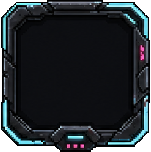
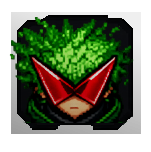
Add Teknium profile scanline FX

diff --git a/tools/validate_healthbar_spec.py b/tools/validate_healthbar_spec.py
@@ -23,6 +23,10 @@ checks = [
     root / 'assets' / 'ui' / 'portrait_ring.png',
     root / 'assets' / 'ui' / 'hero_profile.png',
     root / 'assets' / 'ui' / 'hero_profile_p2.png',
+    root / 'assets' / 'ui' / 'hero_profile_scanlines.png',
+    root / 'assets' / 'ui' / 'hero_profile_scanlines_p2.png',
+    root / 'assets' / 'ui' / 'hero_profile_top.png',
+    root / 'assets' / 'ui' / 'hero_profile_top_p2.png',
     root / 'assets' / 'ui' / 'countdown_timer.png',
     root / 'art' / 'portraits' / 'teknium_portrait.png',
     root / 'art' / 'portraits' / 'lobster_portrait.png',
@@ -86,6 +90,12 @@ required_health = [
     'var suffix := "" if slot == "P1" else "_p2"',
     'var colors := [P2_FILL_BASE, P2_FILL_SHINE] if slot != "P1" else _hero_fill_colors(hero_name)',
     'healthbar_outline%s.png', 'healthbar_track%s.png', 'hero_profile%s.png',
+    'hero_profile_scanlines%s.png', 'hero_profile_top%s.png', 'PortraitScanlineClip', 'clip_contents = true',
+    'PORTRAIT_SCANLINE_SCROLL_SPEED: float = 9.5', 'PORTRAIT_SCANLINE_INSET: Vector2 = Vector2(4, 4)',
+    'PORTRAIT_SCANLINE_CLIP_SIZE: Vector2 = Vector2(46, 46)', 'PORTRAIT_SCANLINE_BASE_ALPHA: float = 0.26',
+    'PORTRAIT_SCANLINE_GLITCH_ALPHA: float = 0.48', 'PORTRAIT_GLITCH_MIN_DELAY: float = 1.8',
+    '_update_profile_fx(delta)', 'portrait_scanline_a.position', 'portrait_scanline_b.position',
+    'portrait_fx_clip.position = portrait.position + PORTRAIT_SCANLINE_INSET + Vector2(jitter_x, 0)',
     'Color.WHITE, 0.12)',
     'fill.position.x = -(_full_width - target_w) if slot != "P1" else 0.0',
     'damage_flash', 'TEXTURE_FILTER_LINEAR',
@@ -137,6 +147,10 @@ expected_sizes = {
     'assets/ui/portrait_ring.png': (224, 160),
     'assets/ui/hero_profile.png': (151, 152),
     'assets/ui/hero_profile_p2.png': (151, 152),
+    'assets/ui/hero_profile_scanlines.png': (151, 152),
+    'assets/ui/hero_profile_scanlines_p2.png': (151, 152),
+    'assets/ui/hero_profile_top.png': (151, 152),
+    'assets/ui/hero_profile_top_p2.png': (151, 152),
     'assets/ui/countdown_timer.png': (330, 151),
     'art/portraits/teknium_portrait.png': (192, 192),
     'art/portraits/lobster_portrait.png': (192, 192),